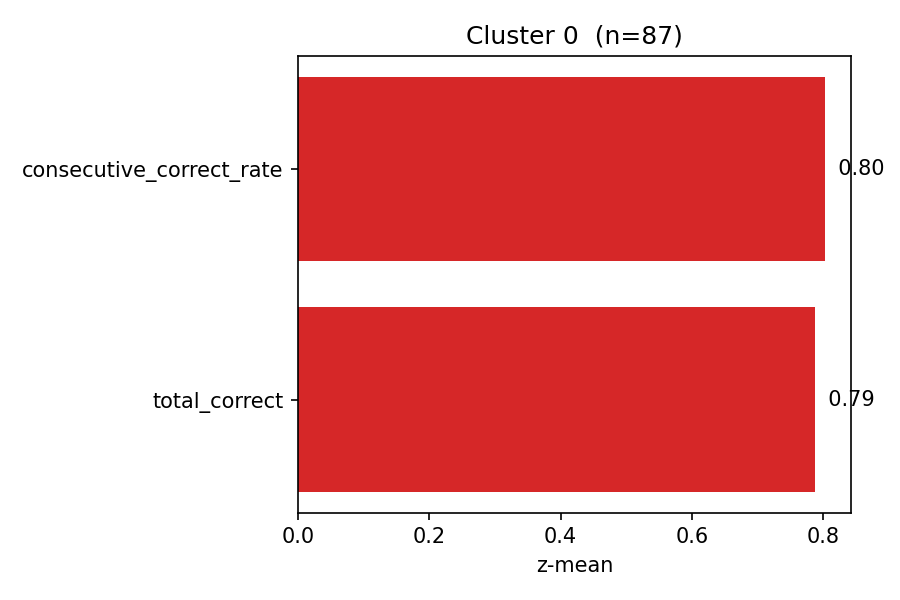
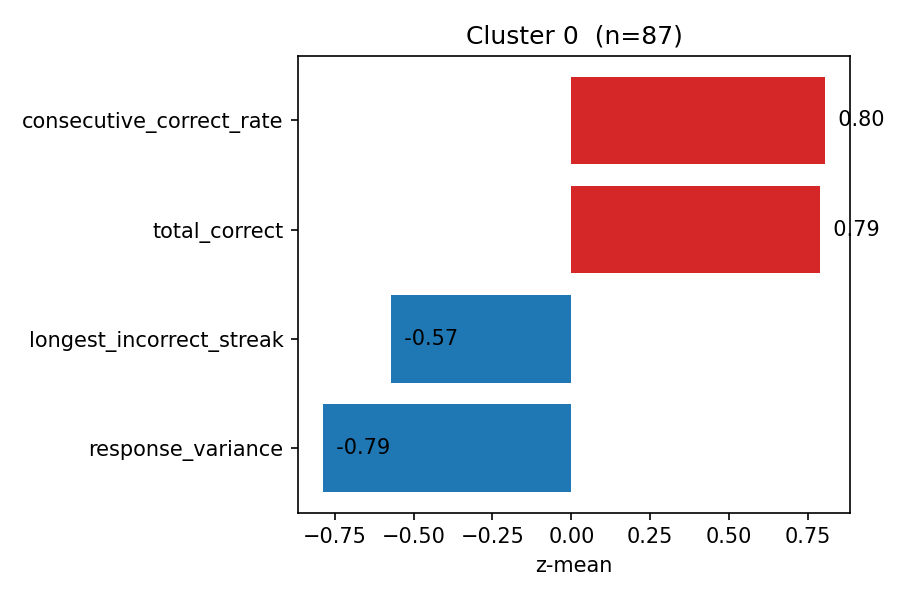
added cluster card changes

diff --git a/cluster_knowledge_trajectories.py b/cluster_knowledge_trajectories.py
@@ -499,21 +499,10 @@ def _save_cluster_cards(feats: pd.DataFrame, feature_cols: list, labels: np.ndar
             if c in feature_cols:
                 feature_to_group[c] = g
     for k in zmean.index:
-        cluster_z = zmean.loc[k]
-        ser = cluster_z[cluster_z > 0].sort_values(ascending=False)
+        ser = zmean.loc[k].abs().sort_values(ascending=False)
         if ser.empty:
             continue
-        selected = []
-        used_groups = set()
-        for f in ser.index:
-            g = feature_to_group.get(f, f)
-            if g in used_groups:
-                continue
-            selected.append(f)
-            used_groups.add(g)
-            if len(selected) >= top_n:
-                break
-        feat = selected
+        feat = ser.index[:top_n].tolist()
         zvals = zmean.loc[k, feat].sort_values()
         fig, ax = plt.subplots(figsize=(6, 4))
         ax.barh(zvals.index, zvals.values, color=["#d62728" if v>0 else "#1f77b4" for v in zmean.loc[k, zvals.index].values])
@@ -1336,7 +1325,7 @@ def main():
             gmm_bic_best_labels,
             figures_dir / "gmm" / "BIC" / "cluster_cards",
             label_name="gmm_bic_best_label",
-            top_n=6,
+            top_n=4,
         )
 
     except Exception:
